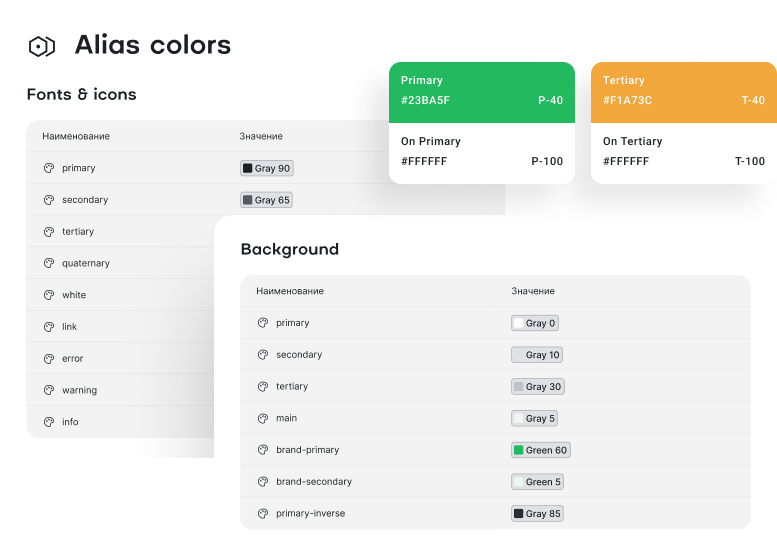
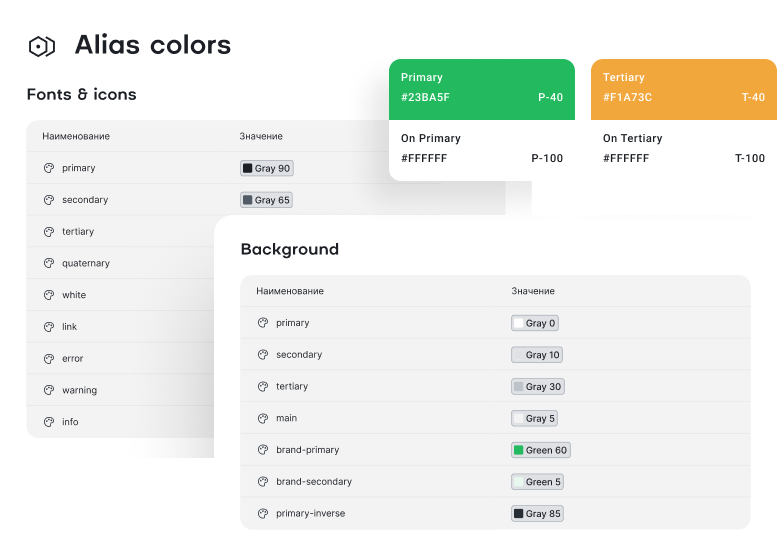
6

diff --git a/case-03.html b/case-03.html
@@ -36,6 +36,7 @@
           <nav class="side-nav" aria-label="Разделы кейса">
             <a class="side-nav__link js-nav-link is-active" href="#main">Описание</a>
             <a class="side-nav__link js-nav-link" href="#case-process-title">Процесс работы</a>
+            <a class="side-nav__link js-nav-link" href="#case-results-block">Результаты</a>
           </nav>
         </div>
         <a class="btn btn--primary" href="./src/assets/docs/Barbarov-Anton-CV.pdf" download="Барбаров Антон Сергеевич.pdf">
@@ -223,6 +224,15 @@
 
               <section class="case-content__section" id="case-components" aria-label="Процесс работы">
                 <h2 class="case-content__title" id="case-process-title">Процесс работы</h2>
+                <figure class="case-cover" aria-label="Десктопный экран регистрации">
+                  <img
+                    class="case-cover__img"
+                    src="./src/assets/img/cases/universal/registration-06.png"
+                    alt="Десктопный экран регистрации поле.рф на ноутбуке"
+                    loading="lazy"
+                    decoding="async"
+                  />
+                </figure>
                 <figure class="case-cover" aria-label="Экраны регистрации">
                   <img
                     class="case-cover__img"
@@ -232,6 +242,18 @@
                     decoding="async"
                   />
                 </figure>
+                <figure class="case-cover" aria-label="Модальное окно входа и регистрации">
+                  <img
+                    class="case-cover__img"
+                    src="./src/assets/img/cases/universal/registration-07.png"
+                    alt="Десктопный экран входа и регистрации поле.рф на ноутбуке"
+                    loading="lazy"
+                    decoding="async"
+                  />
+                </figure>
+                <p class="case-content__text">
+                  Процесс работы над редизайном представлен ниже.
+                </p>
                 <div class="case-accordions" aria-label="Процесс работы">
                   <details class="case-accordion">
                     <summary class="case-accordion__summary">
@@ -943,6 +965,7 @@
                       <span class="case-accordion__label">
                         <span class="case-accordion__icon" aria-hidden="true">🧩</span>
                         Редизайн 2026 года
+                        <span class="badge">Update</span>
                       </span>
                       <span class="case-accordion__chevron" aria-hidden="true"></span>
                     </summary>
@@ -996,6 +1019,106 @@
               </section>
 
             </div>
+
+            <section
+              class="case-results-tabs js-tabs"
+              id="case-results-block"
+              aria-label="Результаты проекта"
+            >
+              <h2 class="case-content__title">Результаты</h2>
+
+              <div class="case-results-tabs__head" role="tablist" aria-label="Переключение блока результатов">
+                <button
+                  class="case-results-tabs__tab is-active"
+                  type="button"
+                  role="tab"
+                  id="tab-done"
+                  aria-controls="panel-done"
+                  aria-selected="true"
+                >
+                  Что сделано
+                </button>
+                <button
+                  class="case-results-tabs__tab"
+                  type="button"
+                  role="tab"
+                  id="tab-problems"
+                  aria-controls="panel-problems"
+                  aria-selected="false"
+                >
+                  Основные проблемы
+                </button>
+              </div>
+
+              <div class="case-results-tabs__body">
+                <div
+                  class="case-results-tabs__panel is-active"
+                  role="tabpanel"
+                  id="panel-done"
+                  aria-labelledby="tab-done"
+                >
+                  <ul class="case-content__list">
+                    <li>
+                      В качестве первого шага переработали флоу для самой частотной роли —
+                      «аграрий»: это позволило выстроить системную базу для унификации всех
+                      сценариев регистрации.
+                    </li>
+                    <li>
+                      Обновили интерфейсные компоненты — замена на более надёжные решения
+                      заметно сократила число ошибок в процессе регистрации.
+                    </li>
+                    <li>
+                      После объединения ролей сценарий регистрации стал лаконичнее: сложный
+                      функционал вынесли в личный кабинет, оставив на этапе регистрации только
+                      ключевые действия.
+                    </li>
+                    <li>
+                      Отказались от модальных окон в пользу отдельной страницы регистрации:
+                      пользователь получает больше контекста о платформе, растёт доверие, а
+                      фокус на целевом действии становится выше.
+                    </li>
+                    <li>
+                      В рамках проекта освоил практику проведения глубинных интервью и подбора
+                      респондентов — получил практический опыт в пользовательских
+                      исследованиях.
+                    </li>
+                  </ul>
+                </div>
+
+                <div
+                  class="case-results-tabs__panel"
+                  role="tabpanel"
+                  id="panel-problems"
+                  aria-labelledby="tab-problems"
+                  hidden
+                >
+                  <ul class="case-content__list">
+                    <li>
+                      Разные флоу регистрации для разных ролей —
+                      из<span class="type-sign">-</span>за этого не получалось выстроить единый
+                      пользовательский путь.
+                    </li>
+                    <li>
+                      Сложный процесс регистрации для поставщиков и продавцов: требовалось
+                      устанавливать специальный софт.
+                    </li>
+                    <li>
+                      Разнородность компонентов регистрации для разных ролей — элементы не были
+                      унифицированы.
+                    </li>
+                    <li>
+                      Нелогичные точки входа на регистрацию — пользователям было неочевидно, как
+                      начать процесс.
+                    </li>
+                    <li>
+                      Технические проблемы с компонентами — они существенно снижали конверсию.
+                    </li>
+                  </ul>
+                </div>
+
+                <button class="case-results-tabs__more" type="button" hidden>Показать еще</button>
+              </div>
+            </section>
 
             <a class="case-next-link" href="./case-04.html" aria-label="Следующий кейс: Визуалы">
               <article class="case-next-card">
@@ -1201,6 +1324,7 @@
           <nav class="mobile-menu__nav" aria-label="Мобильная навигация">
             <a class="mobile-menu__link js-nav-link is-active" href="#main">Описание</a>
             <a class="mobile-menu__link js-nav-link" href="#case-process-title">Процесс работы</a>
+            <a class="mobile-menu__link js-nav-link" href="#case-results-block">Результаты</a>
           </nav>
         </div>
         <div class="mobile-menu__footer">

diff --git a/case-01.html b/case-01.html
@@ -164,9 +164,11 @@
               </div>
 
               <p class="case-intro__description">
-                Отвечал за полный цикл разработки финпродукта: от концепции до запуска. Проект
-                стартовал в середине 2024 года и сейчас находится на завершающем этапе.
-                Дальнейшее развитие предусматривает интеграцию с государственными сервисами
+                Финтех<span class="type-sign">-</span>продукт для российского фермера от
+                «поле.рф» — это наш собственный проект, и я вёл его от концепции до запуска. Мы
+                сделали ставку на доступность — без ежемесячных платежей, с гибкими условиями и
+                сниженной ставкой. Старт в середине 2024 года, сейчас выходим на финиш. Впереди
+                — интеграция с государственными сервисами.
               </p>
             </div>
 
@@ -261,6 +263,33 @@
               <div class="case-showcase__media">
                 <img
                   class="case-showcase__img"
+                  src="./src/assets/img/cases/case-01-mkk-02-4.png"
+                  alt="Мобильный экран лендинга Поле Финанс"
+                  loading="lazy"
+                  decoding="async"
+                />
+              </div>
+              <div class="case-showcase__media">
+                <img
+                  class="case-showcase__img"
+                  src="./src/assets/img/cases/case-01-mkk-02.png"
+                  alt="Мобильные экраны лендинга МКК"
+                  loading="lazy"
+                  decoding="async"
+                />
+              </div>
+              <div class="case-showcase__media">
+                <img
+                  class="case-showcase__img"
+                  src="./src/assets/img/cases/case-01-mkk-02-3.png"
+                  alt="Мобильные экраны формы заявки и успешной отправки"
+                  loading="lazy"
+                  decoding="async"
+                />
+              </div>
+              <div class="case-showcase__media">
+                <img
+                  class="case-showcase__img"
                   src="./src/assets/img/cases/case-01-mkk-landing.png"
                   alt="Экран лендинга МКК"
                   loading="lazy"
@@ -272,15 +301,6 @@
                   class="case-showcase__img"
                   src="./src/assets/img/cases/case-01-mkk-03.png"
                   alt="Мобильный экран этапов получения денег"
-                  loading="lazy"
-                  decoding="async"
-                />
-              </div>
-              <div class="case-showcase__media">
-                <img
-                  class="case-showcase__img"
-                  src="./src/assets/img/cases/case-01-mkk-02.png"
-                  alt="Мобильные экраны лендинга МКК"
                   loading="lazy"
                   decoding="async"
                 />

diff --git a/case-02.html b/case-02.html
@@ -162,6 +162,12 @@
                 </h1>
               </div>
 
+              <p class="case-intro__description">
+                Этот кейс — про нашу дизайн<span class="type-sign">-</span>систему. Над ней
+                работала вся команда дизайнеров, и я был в этом процессе с самого начала. Мы не
+                стали брать готовые шаблоны и копировать чужие решения — вместо этого старались
+                отразить в системе именно наш корпоративный характер.
+              </p>
             </div>
 
             <div class="case-results" id="case-results" aria-label="Результаты">